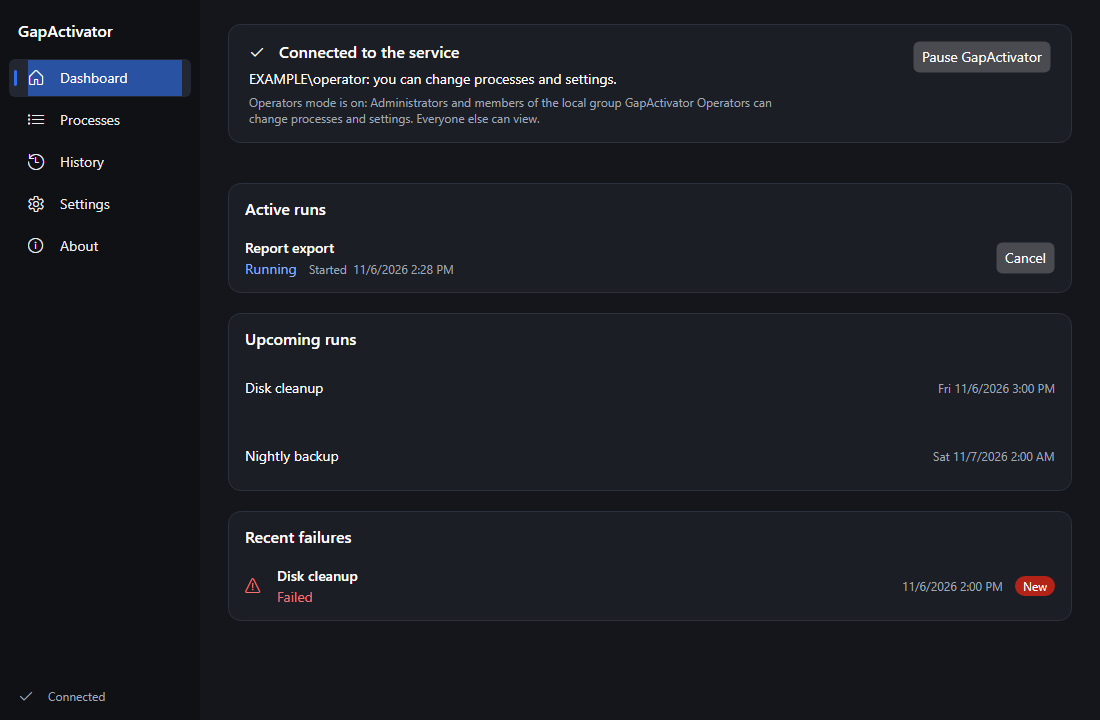
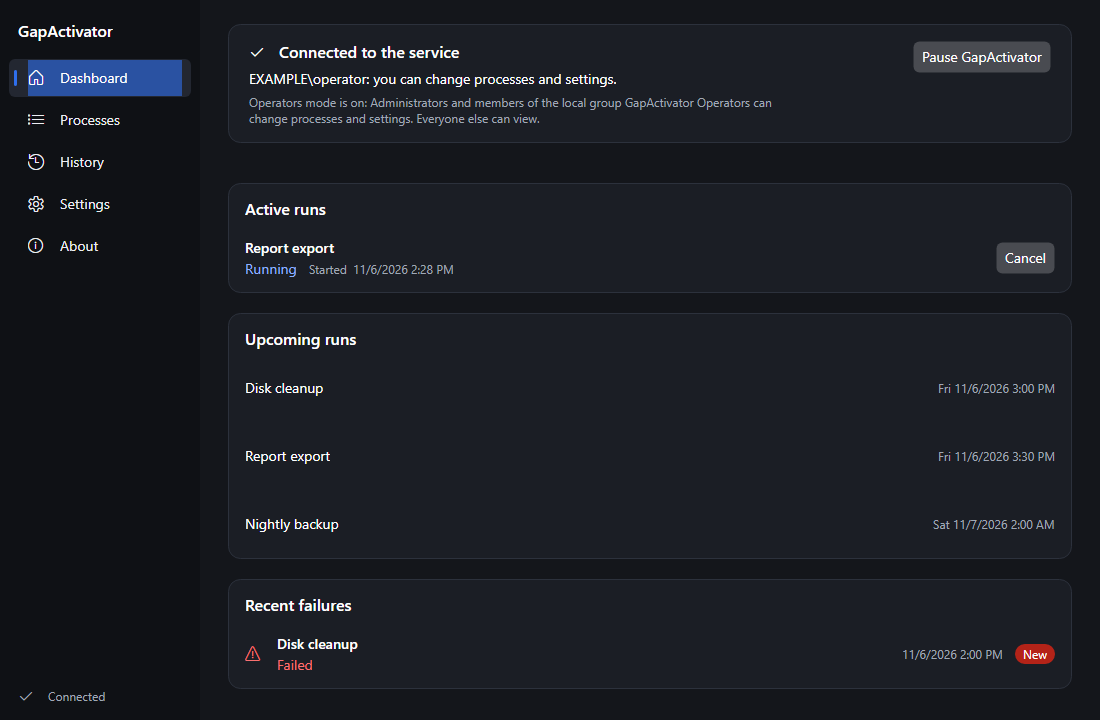
docs: render the screenshots in en-US with contract-correct exit codes

diff --git a/tools/GapActivator.Screenshots/Scenarios.cs b/tools/GapActivator.Screenshots/Scenarios.cs
@@ -53,7 +53,6 @@ internal static class Scenes
         var invoices = Guid.Parse("11111111-0000-0000-0000-000000000006");
 
         var reportRun = Row(Run(1), report, "Report export", RunState.Running, null, RunTrigger.Schedule, At(6, 14, 28, 5), null, null);
-        var workerRun = Row(Run(2), worker, "Queue worker", RunState.Running, null, RunTrigger.ServiceKeepAlive, At(4, 6, 0), null, null);
         var cleanupFail = Row(Run(3), cleanup, "Disk cleanup", RunState.Completed, RunOutcome.Failed, RunTrigger.Schedule, At(6, 14, 0, 2), At(6, 14, 0, 19), 2);
         var invoiceTimeout = Row(Run(4), invoices, "Invoice sync", RunState.Completed, RunOutcome.TimedOut, RunTrigger.Retry, At(6, 9, 30), At(6, 9, 35), null);
 
@@ -62,7 +61,7 @@ internal static class Scenes
             Summary(nightly, "Nightly backup", ProcessKind.RunToCompletion, ProcessLifecycle.Enabled, null, RunOutcome.Succeeded, At(7, 2, 0), At(6, 2, 4), 0),
             Summary(report, "Report export", ProcessKind.RunToCompletion, ProcessLifecycle.Enabled, new ActiveRunViewDto(reportRun.Id, RunState.Running, RunTrigger.Schedule, reportRun.StartedAt, 4120), RunOutcome.Succeeded, At(6, 15, 30), At(5, 14, 28), 0),
             Summary(cleanup, "Disk cleanup", ProcessKind.RunToCompletion, ProcessLifecycle.Enabled, null, RunOutcome.Failed, At(6, 15, 0), At(6, 14, 0), 1),
-            Summary(worker, "Queue worker", ProcessKind.Service, ProcessLifecycle.Enabled, new ActiveRunViewDto(workerRun.Id, RunState.Running, RunTrigger.ServiceKeepAlive, workerRun.StartedAt, 2288), null, null, null, 0),
+            Summary(worker, "Queue worker", ProcessKind.Service, ProcessLifecycle.Enabled, null, RunOutcome.Stopped, null, At(5, 23, 0), 0),
             Summary(rotation, "Log rotation", ProcessKind.RunToCompletion, ProcessLifecycle.Disabled, null, RunOutcome.Succeeded, null, At(1, 3, 0), 0),
             Summary(invoices, "Invoice sync", ProcessKind.RunToCompletion, ProcessLifecycle.Blocked, null, RunOutcome.TimedOut, null, At(6, 9, 35), 3),
         ]);
@@ -72,6 +71,7 @@ internal static class Scenes
             [reportRun],
             [
                 new UpcomingRunDto(cleanup, "Disk cleanup", At(6, 15, 0)),
+                new UpcomingRunDto(report, "Report export", At(6, 15, 30)),
                 new UpcomingRunDto(nightly, "Nightly backup", At(7, 2, 0)),
             ],
             [cleanupFail]);
@@ -88,7 +88,6 @@ internal static class Scenes
             TimeSpan.FromSeconds(30),
             [
                 new ScheduleViewDto(Guid.NewGuid(), ScheduleInputKind.Recurring, At(7, 2, 0), "FREQ=DAILY;BYHOUR=2;BYMINUTE=0", At(7, 2, 0), null),
-                new ScheduleViewDto(Guid.NewGuid(), ScheduleInputKind.Recurring, At(8, 4, 0), "FREQ=WEEKLY;BYDAY=SU;BYHOUR=4;BYMINUTE=0", At(8, 4, 0), null),
             ],
             At(1, 9, 0),
             At(3, 11, 20),
@@ -97,17 +96,16 @@ internal static class Scenes
         gateway.Runs.AddRange(
         [
             reportRun,
-            workerRun,
             cleanupFail,
             invoiceTimeout,
-            Row(Run(5), nightly, "Nightly backup", RunState.Completed, RunOutcome.Succeeded, RunTrigger.Schedule, At(6, 2, 0, 1), At(6, 2, 4, 12), 1),
-            Row(Run(6), report, "Report export", RunState.Completed, RunOutcome.Succeeded, RunTrigger.Manual, At(5, 16, 10), At(5, 16, 12), 1),
-            Row(Run(7), cleanup, "Disk cleanup", RunState.Completed, RunOutcome.Succeeded, RunTrigger.Schedule, At(5, 14, 0, 1), At(5, 14, 0, 33), 1),
+            Row(Run(5), nightly, "Nightly backup", RunState.Completed, RunOutcome.Succeeded, RunTrigger.Schedule, At(6, 2, 0, 1), At(6, 2, 4, 12), 0),
+            Row(Run(6), report, "Report export", RunState.Completed, RunOutcome.Succeeded, RunTrigger.Manual, At(5, 16, 10), At(5, 16, 12), 0),
+            Row(Run(7), cleanup, "Disk cleanup", RunState.Completed, RunOutcome.Succeeded, RunTrigger.Schedule, At(5, 14, 0, 1), At(5, 14, 0, 33), 0),
             Row(Run(8), invoices, "Invoice sync", RunState.Completed, RunOutcome.Failed, RunTrigger.Schedule, At(5, 9, 0, 3), At(5, 9, 0, 21), 2),
-            Row(Run(9), nightly, "Nightly backup", RunState.Completed, RunOutcome.Succeeded, RunTrigger.Schedule, At(5, 2, 0, 1), At(5, 2, 3, 48), 1),
-            Row(Run(10), report, "Report export", RunState.Completed, RunOutcome.Cancelled, RunTrigger.Manual, At(4, 11, 45), At(4, 11, 46), 3),
+            Row(Run(9), nightly, "Nightly backup", RunState.Completed, RunOutcome.Succeeded, RunTrigger.Schedule, At(5, 2, 0, 1), At(5, 2, 3, 48), 0),
+            Row(Run(10), report, "Report export", RunState.Completed, RunOutcome.Cancelled, RunTrigger.Manual, At(4, 11, 45), At(4, 11, 46), null),
             Row(Run(11), cleanup, "Disk cleanup", RunState.Completed, RunOutcome.Skipped, RunTrigger.Schedule, At(4, 14, 0), At(4, 14, 0), null),
-            Row(Run(12), nightly, "Nightly backup", RunState.Completed, RunOutcome.Succeeded, RunTrigger.Schedule, At(4, 2, 0, 1), At(4, 2, 4, 2), 1),
+            Row(Run(12), nightly, "Nightly backup", RunState.Completed, RunOutcome.Succeeded, RunTrigger.Schedule, At(4, 2, 0, 1), At(4, 2, 4, 2), 0),
         ]);
 
         gateway.RunDetails[cleanupFail.Id] = new RunDetailsDto(
@@ -131,7 +129,7 @@ internal static class Scenes
                 day = day.AddDays(1);
                 if (day.DayOfWeek is not (DayOfWeek.Saturday or DayOfWeek.Sunday))
                 {
-                    times.Add(new DateTimeOffset(day.AddHours(2), TimeSpan.Zero));
+                    times.Add(new DateTimeOffset(day.AddHours(6), TimeSpan.Zero));
                 }
             }
 

diff --git a/tools/GapActivator.Screenshots/Program.cs b/tools/GapActivator.Screenshots/Program.cs
@@ -1,3 +1,4 @@
+using System.Globalization;
 using Avalonia;
 using Avalonia.Controls;
 using Avalonia.Headless;
@@ -10,7 +11,7 @@ using GapActivator.App.ViewModels;
 using GapActivator.App.Views;
 using GapActivator.Screenshots;
 
-var outDir = Path.GetFullPath("docs/images");
+var outDir = Path.Combine(RepositoryRoot(), "docs", "images");
 for (var i = 0; i < args.Length; i++)
 {
     if (args[i] == "--out" && i + 1 < args.Length)
@@ -20,6 +21,9 @@ for (var i = 0; i < args.Length; i++)
 }
 
 Directory.CreateDirectory(outDir);
+
+// The real app applies this culture through ThemeApplier; without it the date pickers show the OS pattern.
+new ProcessCultureApplier().Apply(CultureInfo.GetCultureInfo("en-US"));
 
 AppBuilder.Configure<GapActivator.App.App>()
     .UseSkia()
@@ -41,7 +45,7 @@ AppBuilder.Configure<GapActivator.App.App>()
         schedule.Mode = GapActivator.App.Scheduling.ScheduleMode.Weekly;
         schedule.Monday = schedule.Tuesday = schedule.Wednesday = schedule.Thursday = schedule.Friday = true;
         schedule.Saturday = schedule.Sunday = false;
-        schedule.Time = TimeSpan.FromHours(2);
+        schedule.Time = TimeSpan.FromHours(6);
         // The preview waits 300 ms on the injected clock, so move that clock instead of the wall.
         s.Time.Advance(TimeSpan.FromSeconds(1));
         Pump(schedule.PreviewRefresh);
@@ -69,7 +73,7 @@ foreach (var (name, theme, prepare) in shots)
     // The pages scroll, so the two that matter below the fold are scrolled to their card.
     if (name == "schedule-editor-light")
     {
-        ScrollTo(window, "ScheduleEditorCard", 130);
+        ScrollTo(window, "SchedulesSection", -24);
     }
     else if (name == "settings-light")
     {
@@ -133,4 +137,18 @@ static void ScrollTo(Window window, string name, double margin)
     var content = (Visual)viewer.Content!;
     viewer.Offset = new Vector(0, target.TranslatePoint(default, content)!.Value.Y - margin);
     Dispatcher.UIThread.RunJobs();
+}
+
+// The default output does not depend on the current directory: walk up from the build output to the solution file.
+static string RepositoryRoot()
+{
+    for (var dir = new DirectoryInfo(AppContext.BaseDirectory); dir is not null; dir = dir.Parent)
+    {
+        if (File.Exists(Path.Combine(dir.FullName, "GapActivator.slnx")))
+        {
+            return dir.FullName;
+        }
+    }
+
+    throw new InvalidOperationException("GapActivator.slnx was not found above the tool; pass --out.");
 }
